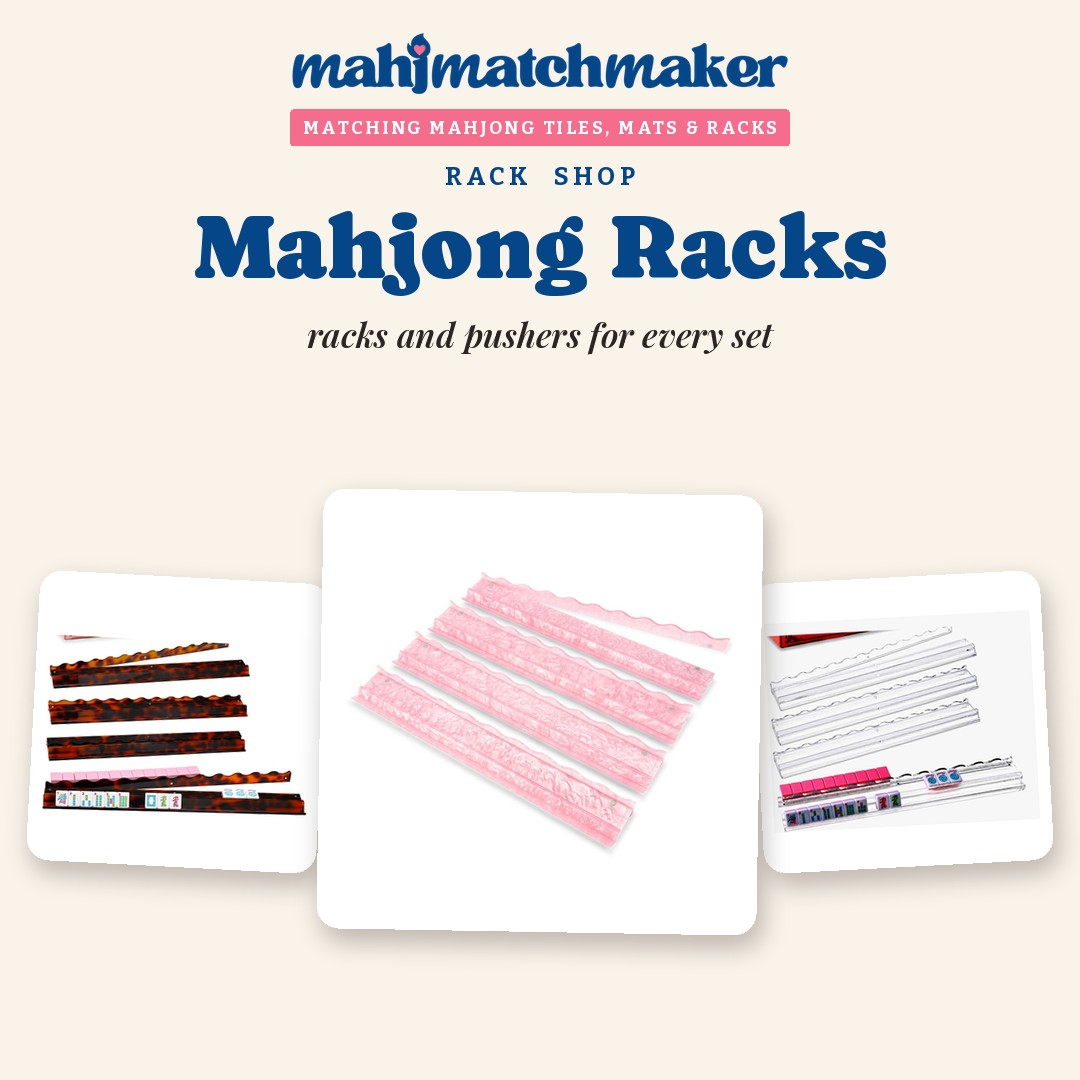
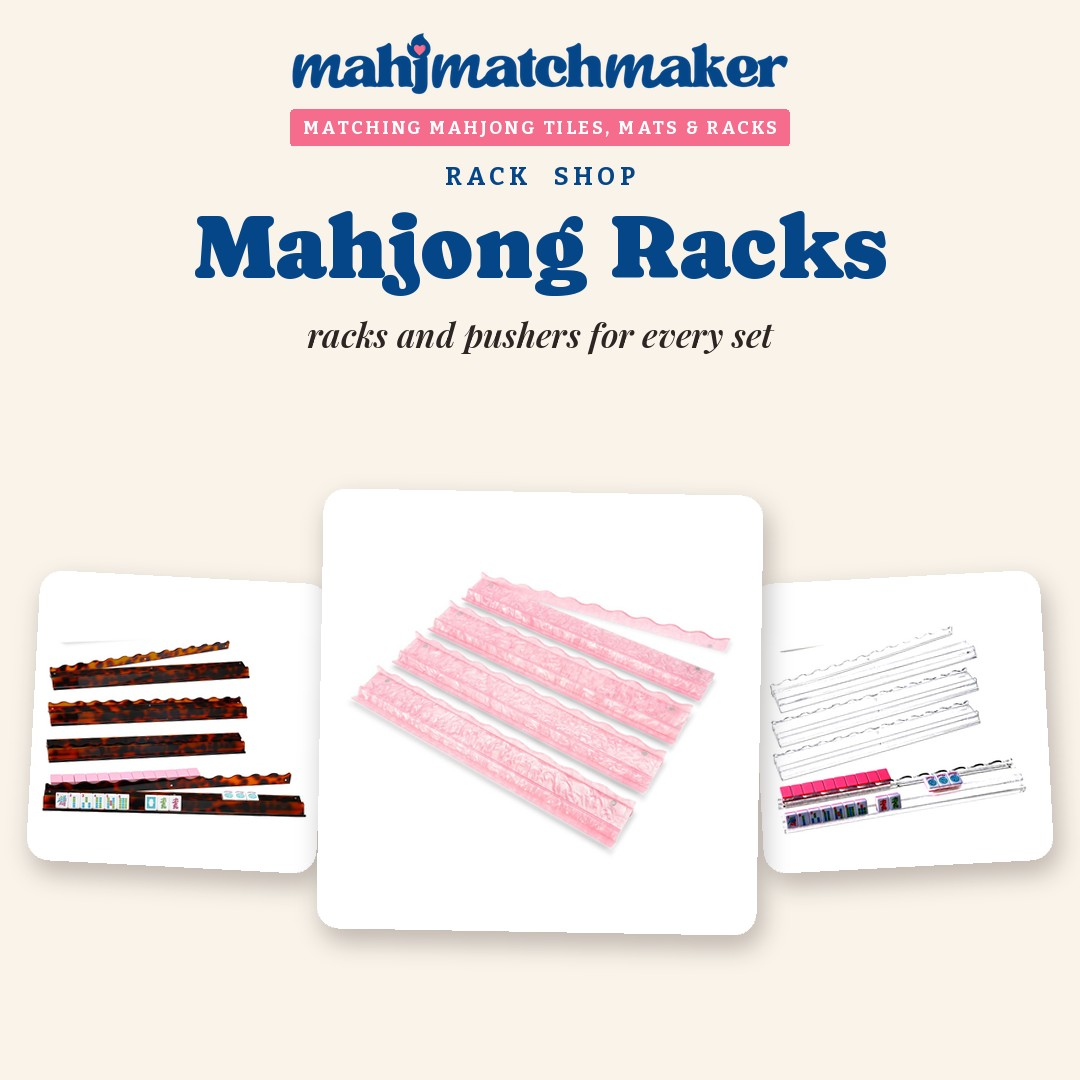
ShopMy covers v3: products padded not cropped, side cards beside the hero (no hidden items), raven + pink bows + beige floral corners rebuilt by 90-degree rotation (beige border mirrored), reindeer flap painted out, bats bouquet image, racks boxes painted out + clear racks readable, Mahjong House ti
Claude-Session: https://claude.ai/code/session_014aKoC1ZMdZPjGkZ9kHhnLk

Changed region(s): [[0.0306, 0.5806, 0.3056, 0.7639], [0.7028, 0.5806, 0.9472, 0.7944]]

diff --git a/scripts/shopmy/make_covers.py b/scripts/shopmy/make_covers.py
@@ -36,10 +36,10 @@ CROP = {
     96239262: (0, .115, 1, 1),       # bouquet: Amazon alt image 51hpe7OnwSL (bats visible), drop its caption line
     96229865: (0, 0, 1, .66),        # cognac leather tile bag: the big bag only
 }
-# white paint-outs on the ORIGINAL image (fractions l, t, r, b), applied before CROP: boxes, bags, packaging
+# white paint-outs on the ORIGINAL image (fractions l, t, r, b, or a polygon of (x, y) fractions), applied before CROP: boxes, bags, packaging
 PAINT = {
-    96217176: [(0, 0, .785, .295), (.76, 0, 1, .765)],   # tortoise racks: pink box + paisley bag
-    96217490: [(0, 0, .785, .26), (.765, 0, 1, .75)],    # clear racks: pink box + paisley bag
+    96217176: [[(0, 0), (.785, 0), (.785, .25), (.06, .318), (0, .318)], (.76, 0, 1, .765)],   # tortoise racks: slanted pink box + paisley bag
+    96217490: [[(0, 0), (.765, 0), (.765, .243), (.06, .31), (0, .31)], (.765, 0, 1, .75)],  # clear racks: slanted pink box + paisley bag
     96213996: [(.818, 0, 1, 1)],                         # beige floral: black bag (right border rebuilt by MIRROR below)
 }
 # contrast boost so clear acrylic still reads at phone size
@@ -136,11 +136,13 @@ def load(pid):
     if im.mode in ('RGBA', 'LA', 'P'):   # transparent PNG -> on WHITE (Mahj & Vine came in on black)
         im = im.convert('RGBA'); bg = Image.new('RGB', im.size, (255, 255, 255)); bg.paste(im, mask=im.getchannel('A')); im = bg
     im = im.convert('RGB')
-    for l, t, r, b in PAINT.get(pid, []):
+    for box in PAINT.get(pid, []):
+        if isinstance(box, list): ImageDraw.Draw(im).polygon([(x * im.width, y * im.height) for x, y in box], fill=(255, 255, 255)); continue
+        l, t, r, b = box
         ImageDraw.Draw(im).rectangle((int(l * im.width), int(t * im.height), int(r * im.width), int(b * im.height)), fill=(255, 255, 255))
     if pid in ENH:
         from PIL import ImageEnhance
-        im = ImageEnhance.Contrast(im).enhance(ENH[pid]); im = ImageEnhance.Brightness(im).enhance(.97)
+        im = ImageEnhance.Contrast(im).enhance(ENH[pid]).point(lambda v: 255 if v > 205 else v)   # keep the backdrop white
     if pid in MIRROR:
         x0, y0, n, k = MIRROR[pid]
         im.paste(im.crop((x0, y0, x0 + k, y0 + n)).transpose(Image.FLIP_LEFT_RIGHT), (x0 + n - k, y0))
